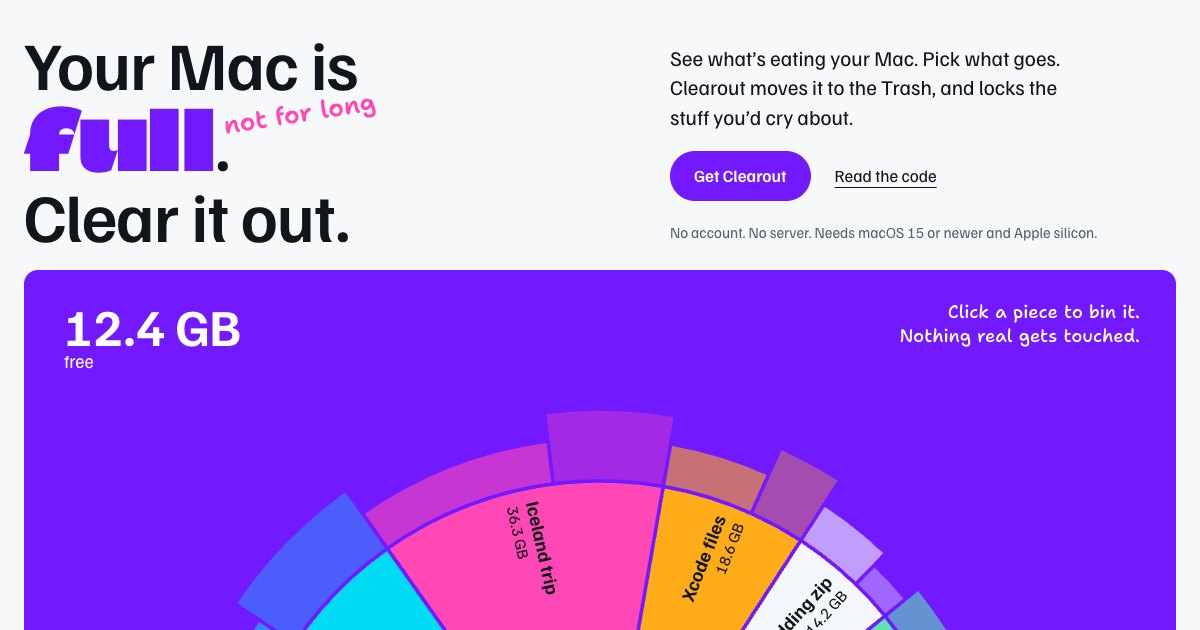
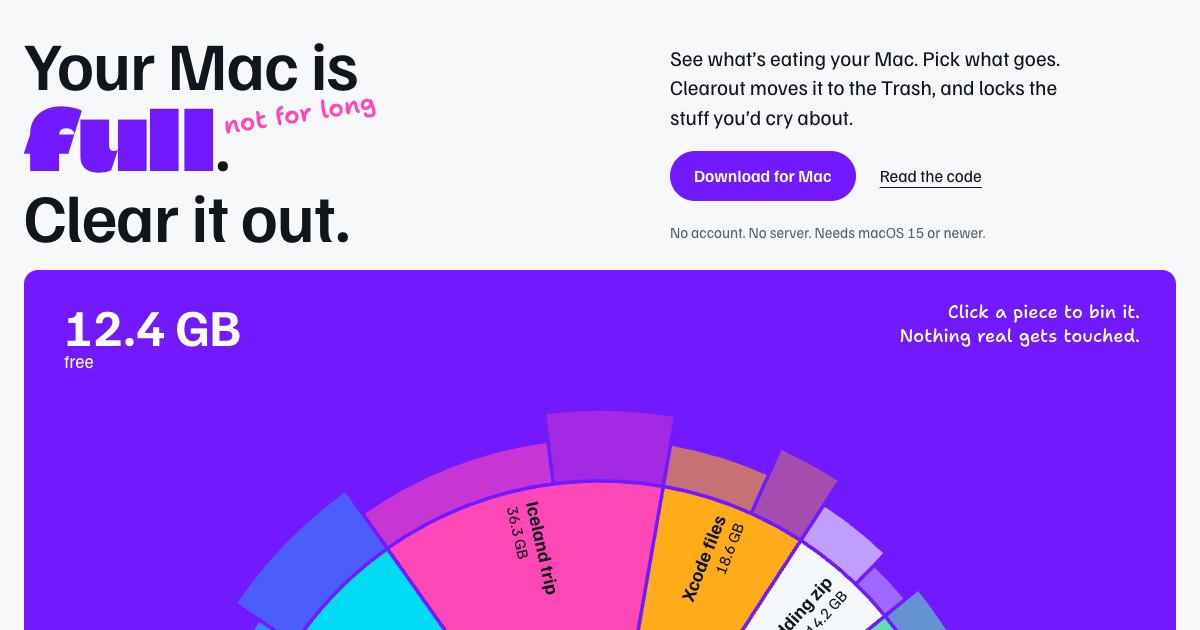
Download button gets the DMG directly
The site and README now point at the newest release, and the site shows the in-use and browser login locks.

Changed region(s): [[0.5858, 0.2413, 0.8325, 0.3317], [0.8325, 0.3619, 0.925, 0.3921]]

diff --git a/site/index.html b/site/index.html
@@ -40,10 +40,10 @@
     <div class="pitch">
       <p>See what’s eating your Mac. Pick what goes. Clearout moves it to the Trash, and locks the stuff you’d cry about.</p>
       <div class="actions">
-        <a class="download" href="#install">Get Clearout</a>
+        <a class="download" href="https://github.com/barry-napier/clearout/releases/latest/download/Clearout.dmg">Download for Mac</a>
         <a class="source" href="https://github.com/barry-napier/clearout">Read the code</a>
       </div>
-      <p class="needs">No account. No server. Needs macOS 15 or newer and Apple silicon.</p>
+      <p class="needs">No account. No server. Needs macOS 15 or newer.</p>
     </div>
   </header>
 
@@ -147,11 +147,13 @@
 
       <article class="card">
         <button class="film f-locks" type="button" aria-label="Enlarge: Lock what matters">
-          <span class="take" data-take="1"><span class="line">Nope.</span><span class="doors"><span>System files</span><span>App data</span><span>Photo library</span><span>Main folders</span></span></span>
+          <span class="take" data-take="1"><span class="line">Nope.</span><span class="doors"><span>System files</span><span>App data</span><span>Photo library</span><span>Browser logins</span></span></span>
+          <span class="take" data-take="2" hidden><span class="line">Busy.</span><span class="why">“Spotify is using this. Quit it first.”</span></span>
         </button>
         <div class="meta">
           <h3>Lock what matters</h3>
-          <p>The risky stuff has no Pick button to press.</p>
+          <p>Risky stuff stays put. So does anything an open app is using.</p>
+          <div class="takes" role="group" aria-label="Lock examples"></div>
         </div>
       </article>
 
@@ -189,8 +191,8 @@
   <section id="privacy" class="section privacy">
     <h2>It’s your mess.<br><em>Nobody else needs to see it.</em></h2>
     <dl>
-      <div><dt>Does it use the internet?</dt><dd>No. Clearout has no server, no account and no tracking.</dd></div>
-      <div><dt>What can it read?</dt><dd>A scan reads names, sizes and dates. It doesn’t open your files. For code, it asks Git, the code-saving tool on your Mac, if your work is saved.</dd></div>
+      <div><dt>Does it use the internet?</dt><dd>No. It has no server, no account and no tracking. It can’t update itself, so get new versions here.</dd></div>
+      <div><dt>What can it read?</dt><dd>A scan reads names, sizes and dates. It doesn’t open your files. Before a move, it checks which apps have files open. For code, it asks Git, the code-saving tool on your Mac, if your work is saved.</dd></div>
       <div><dt>Why Full Disk Access?</dt><dd>So it can see every folder. You can skip it, but then your Mac hides some folders and asks you more often.</dd></div>
       <div><dt>What does the AI see?</dt><dd>Names only, on your Mac. It needs macOS 26 and Apple Intelligence. Everything else works without it.</dd></div>
       <div><dt>When do I get space back?</dt><dd>When you empty the Trash. Sizes are close but not exact, because macOS can share space between copies.</dd></div>
@@ -201,20 +203,13 @@
   <section id="install" class="section install">
     <h2>Give your Mac some room.</h2>
     <div class="steps">
-      <p>There’s no download yet. For now you build it on your Mac.</p>
       <ol>
-        <li>Install <a href="https://apps.apple.com/app/xcode/id497799835">Xcode</a>. Add your Apple account and make an <b>Apple Development</b> certificate.</li>
-        <li>Paste this into Terminal.
-          <div class="code">
-            <pre id="command" tabindex="0"><code>git clone https://github.com/barry-napier/clearout.git
-cd clearout
-./scripts/build.sh</code></pre>
-            <button id="copy" type="button">Copy</button>
-          </div>
-        </li>
-        <li>Clearout opens by itself. Switch on Full Disk Access when it asks.</li>
+        <li>Click <b>Download for Mac</b>.</li>
+        <li>Open <b>Clearout.dmg</b> from your Downloads, then drag Clearout into Applications.</li>
+        <li>Open Clearout and switch on Full Disk Access when it asks.</li>
       </ol>
-      <a class="download" href="https://github.com/barry-napier/clearout">Open on GitHub</a>
+      <a class="download" href="https://github.com/barry-napier/clearout/releases/latest/download/Clearout.dmg">Download for Mac</a>
+      <p class="needs">Checked by Apple for malware. Needs macOS 15 or newer.</p>
     </div>
   </section>
 </main>

diff --git a/site/styles.css b/site/styles.css
@@ -178,6 +178,7 @@ button:disabled { cursor: default }
 
 .f-locks { background: #2c3540; color: #f4f7fb }
 .f-locks .line { left: 5cqw; top: 15cqw; font: 400 13.5cqw/1 var(--fat); color: var(--pink); font-variation-settings: "YEAR" 2000 }
+.f-locks .why { left: 6cqw; right: 6cqw; bottom: 6cqw; padding: 3cqw 4cqw; background: var(--pink); color: #3b0827; font: 500 5.2cqw/1.2 var(--ui) }
 .f-locks .doors { left: 6cqw; right: 6cqw; bottom: 5cqw; display: flex; flex-wrap: wrap; gap: 1.6cqw }
 .f-locks .doors span { padding: 1.4cqw 3cqw; border: .35cqw solid #697687; border-radius: 9cqw; font: 500 4.3cqw/1.2 var(--ui) }
 
@@ -220,12 +221,9 @@ dialog .close { display: block; margin: 0 0 10px auto; min-height: 40px; padding
 .install :focus-visible { outline-color: #352000 }
 .install h2 { font-size: clamp(44px, 6vw, 84px); line-height: .98 }
 .steps { display: grid; gap: 20px; min-width: 0 }
-.steps > p { font-weight: 700; font-size: 19px }
+.steps .needs { color: #5a3a05 }
 .install ol { min-width: 0; margin: 0; padding-left: 22px; display: grid; grid-template-columns: minmax(0, 1fr); gap: 10px; font-size: 18px }
 .install li { min-width: 0 }
-.code { position: relative; margin-top: 10px; border-radius: 9px; background: #352000; color: #ffe2a8 }
-.code pre { margin: 0; padding: 16px; padding-top: 44px; overflow-x: auto; font: 13px/1.7 ui-monospace, Menlo, monospace }
-.code button { position: absolute; top: 8px; right: 8px; min-height: 32px; padding: 0 12px; border: 1px solid #8c6a32; border-radius: 6px; background: transparent; color: inherit; font-size: 13px }
 .install .download { justify-self: start; background: #352000 }
 footer { display: flex; flex-wrap: wrap; gap: 8px 24px; padding-block: 32px 40px; color: var(--muted); font-size: 15px }
 footer span { margin-right: auto }
@@ -267,7 +265,6 @@ footer span { margin-right: auto }
   .gallery, .privacy dl { grid-template-columns: minmax(0, 1fr) }
   .screen img { border-radius: 6px }
   .install { margin-top: 72px; padding: 36px 20px }
-  .code pre { font-size: 11px }
 }
 
 @keyframes scribble { from { opacity: 0; clip-path: inset(0 100% 0 0) } }

diff --git a/site/main.js b/site/main.js
@@ -312,17 +312,6 @@ $$('[data-screen]').forEach(button => button.addEventListener('click', () => {
   });
 }));
 
-$('#copy').addEventListener('click', async () => {
-  const text = $('#command').textContent;
-  try {
-    await navigator.clipboard.writeText(text);
-    $('#copy').textContent = 'Copied';
-  } catch {
-    getSelection().selectAllChildren($('#command'));
-    $('#copy').textContent = 'Press Command-C';
-  }
-});
-
 $('#theme').addEventListener('click', () => {
   const next = isDark() ? 'light' : 'dark';
   document.documentElement.dataset.theme = next;

diff --git a/README.md b/README.md
@@ -4,6 +4,14 @@
 
 A private disk cleaner for your Mac. See what fills it, then clean it up.
 
+## Get it
+
+[Download Clearout](https://github.com/barry-napier/clearout/releases/latest/download/Clearout.dmg),
+open it, and drag Clearout to Applications. It needs macOS 15 or newer.
+Clearout never uses the network, so it cannot update itself. Download new versions the same way.
+
+Website: [clearout.bnapier.dev](https://clearout.bnapier.dev)
+
 ## Use
 
 1. Open **Clearout** from Applications. It also lives in your menu bar.
@@ -61,3 +69,18 @@ The Xcode project is generated from `project.yml`. Edit that, not the project.
 - `Clearout/UI`: native windows
 - `Clearout/Web`: the screens, in plain HTML, CSS and JS
 - `scripts/make-icon.swift`: draws the icon
+- `site/`: the website, in plain HTML, CSS and JS
+
+## Releasing
+
+Commit, push `main`, then run this on a Mac with a Developer ID certificate:
+
+```sh
+./scripts/release.sh 0.2.0 --publish
+```
+
+It runs the tests, builds, signs, has Apple check it, and publishes the DMG on GitHub.
+The website's Download button always gets the newest release.
+The Apple login is the `clearout-notary` keychain profile. The script says how to save one.
+
+After you change `site/`, publish it with `cd site && vercel --prod`.
